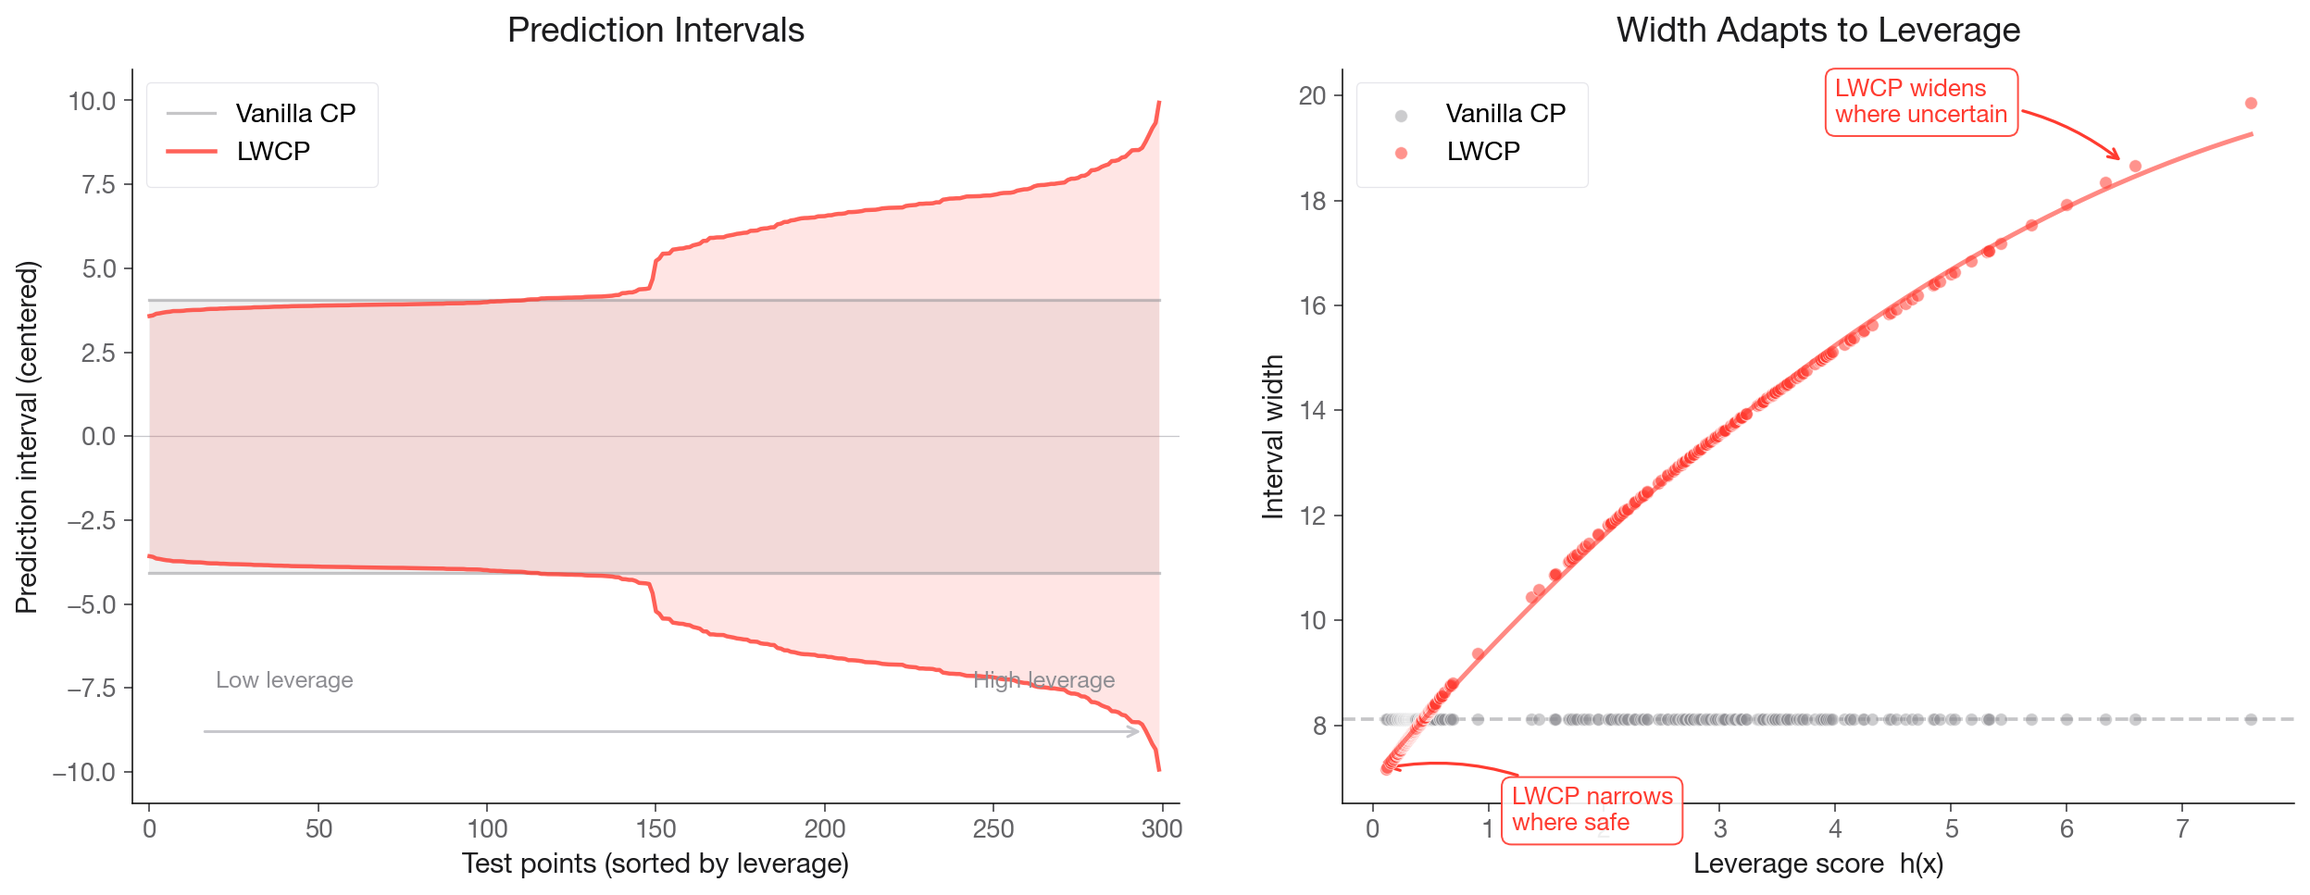
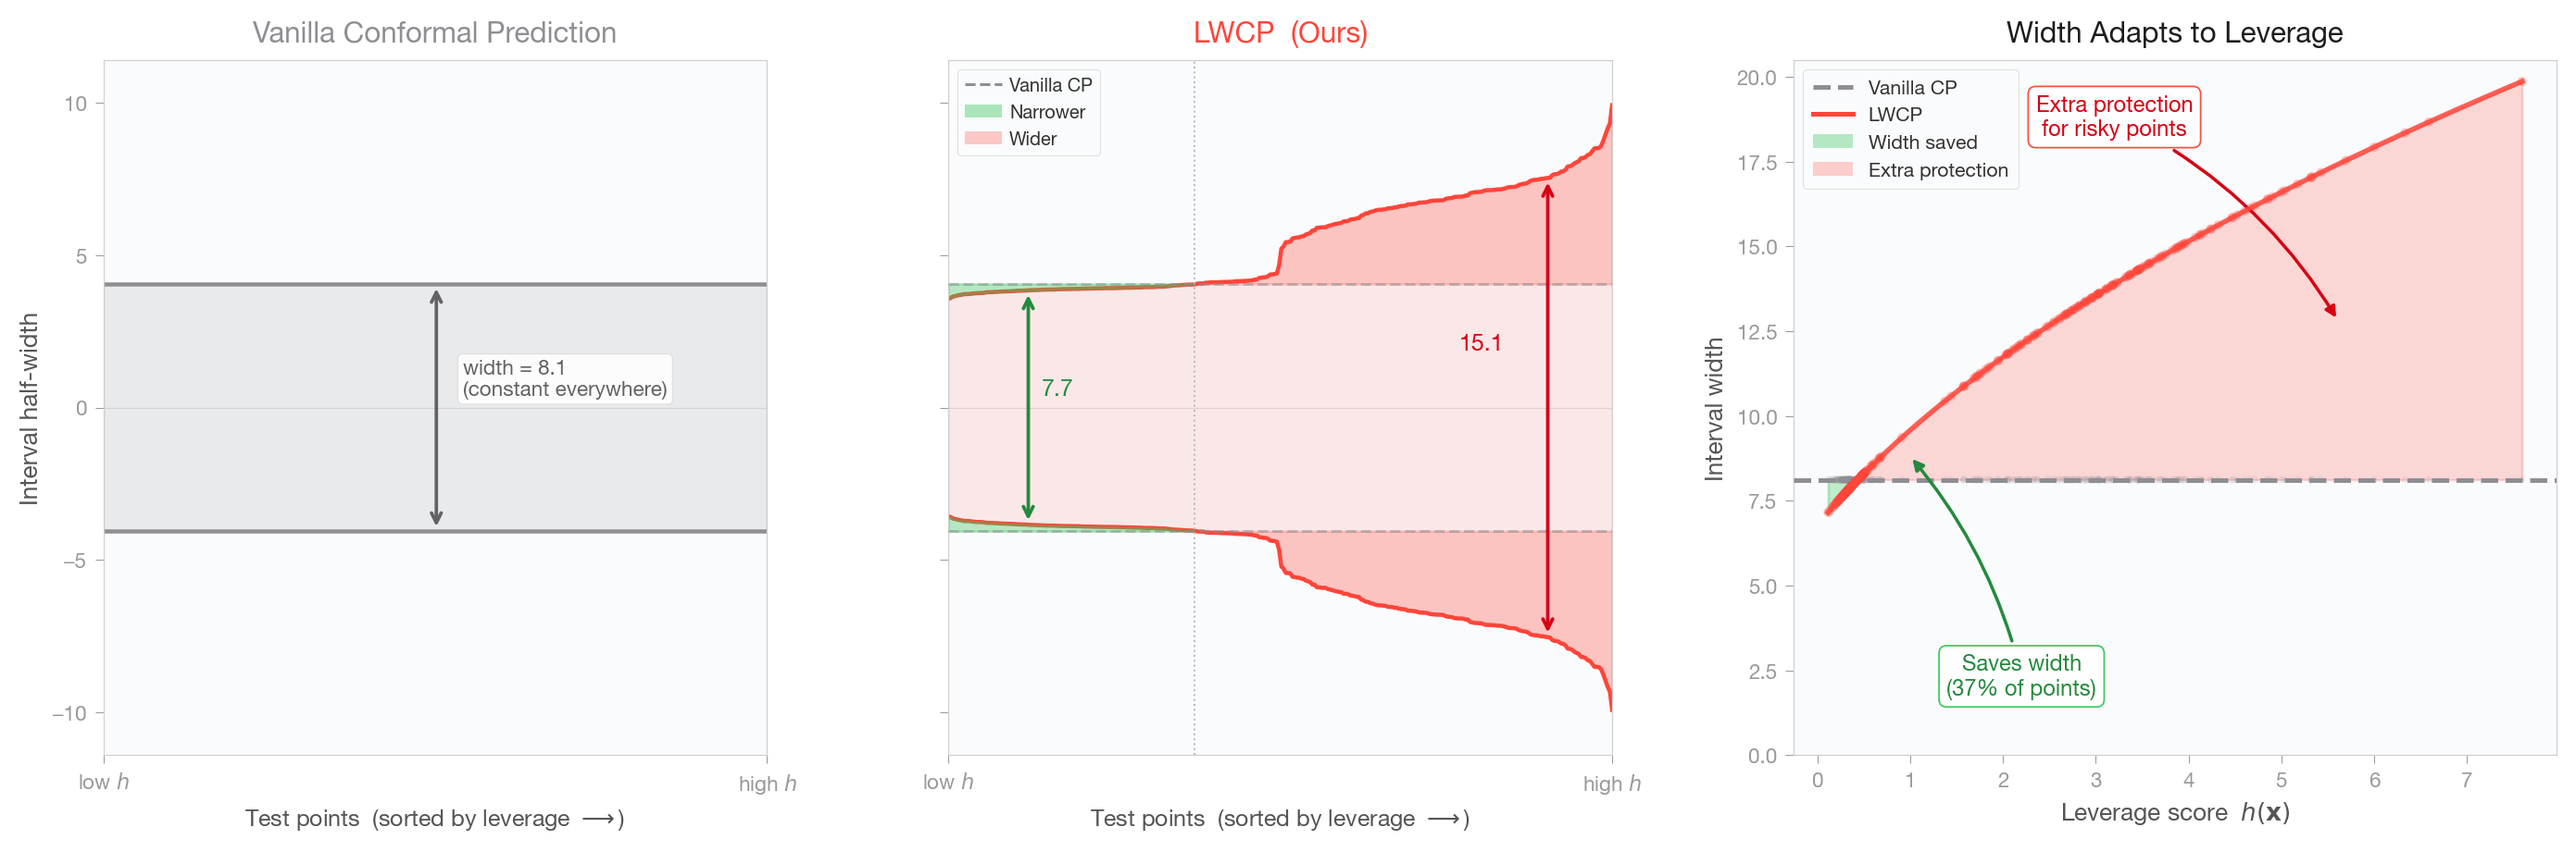
Redesign README plot three-panel layout

diff --git a/examples/generate_plot.py b/examples/generate_plot.py
@@ -1,0 +1,273 @@
+"""Generate the README hero image for LWCP."""
+
+import numpy as np
+import matplotlib.pyplot as plt
+import matplotlib.gridspec as gridspec
+from matplotlib.lines import Line2D
+from matplotlib.patches import Patch
+from sklearn.linear_model import Ridge
+from scipy.optimize import curve_fit
+import sys, os
+sys.path.insert(0, os.path.join(os.path.dirname(__file__), ".."))
+from lwcp import LWCP, ConstantWeight
+
+# ── Data (same as README) ──────────────────────────────────────────────
+rng = np.random.default_rng(5)
+p, n = 30, 200
+X = rng.standard_normal((n, p))
+X[-20:] *= 3
+beta = rng.standard_normal(p) * 0.5
+y = X @ beta + rng.normal(0, 2.0, size=n)
+
+# ── Fit ────────────────────────────────────────────────────────────────
+model = LWCP(predictor=Ridge(alpha=1.0), alpha=0.1, random_state=0)
+model.fit(X, y)
+vanilla = LWCP(predictor=Ridge(alpha=1.0), alpha=0.1, random_state=0,
+               weight_fn=ConstantWeight())
+vanilla.fit(X, y)
+
+# ── Predict ────────────────────────────────────────────────────────────
+X_test = np.vstack([rng.standard_normal((150, p)),
+                    rng.standard_normal((150, p)) * 3])
+y_pred, lo, hi = model.predict(X_test)
+_, lo_v, hi_v = vanilla.predict(X_test)
+
+h = model.leverage_computer_.leverage_scores(X_test)
+w_lwcp = hi - lo
+w_van = hi_v - lo_v
+hw_lwcp = w_lwcp / 2
+hw_van = w_van / 2
+
+# Sort by leverage
+order = np.argsort(h)
+h_s = h[order]
+hw_lwcp_s = hw_lwcp[order]
+hw_van_s = hw_van[order]
+w_lwcp_s = w_lwcp[order]
+w_van_s = w_van[order]
+idx = np.arange(len(h_s))
+n_pts = len(idx)
+
+# Stats
+pct_narrower = 100 * np.mean(w_lwcp < w_van)
+van_w = np.mean(w_van)
+
+# ── Style ─────────────────────────────────────────────────────────────
+plt.rcParams.update({
+    "font.family": "sans-serif",
+    "font.sans-serif": ["Helvetica Neue", "Helvetica", "Arial", "DejaVu Sans"],
+    "font.size": 10.5,
+    "axes.linewidth": 0.5,
+    "axes.edgecolor": "#d0d0d0",
+    "xtick.major.width": 0.4,
+    "ytick.major.width": 0.4,
+    "xtick.color": "#999999",
+    "ytick.color": "#999999",
+    "xtick.labelsize": 9,
+    "ytick.labelsize": 9,
+    "axes.labelcolor": "#555555",
+    "text.color": "#333333",
+    "figure.facecolor": "white",
+    "axes.facecolor": "#fafbfc",
+    "axes.grid": False,
+})
+
+GREEN = "#34c759"
+GREEN_DARK = "#248a3d"
+CORAL = "#ff453a"
+CORAL_DARK = "#d70015"
+LWCP_COL = "#ff453a"
+VAN_COL = "#8e8e93"
+DARK = "#1d1d1f"
+
+# ── Figure ─────────────────────────────────────────────────────────────
+fig = plt.figure(figsize=(16, 5.8))
+gs = gridspec.GridSpec(1, 3, width_ratios=[1, 1, 1.15], wspace=0.26,
+                       left=0.05, right=0.97, top=0.85, bottom=0.13)
+
+# Shared y-limits for centered intervals
+ymax_hw = max(hw_van_s.max(), hw_lwcp_s.max()) * 1.15
+
+# ═══════════════════════════════════════════════════════════════════════
+# PANEL 1: Vanilla CP — flat centered intervals
+# ═══════════════════════════════════════════════════════════════════════
+ax1 = fig.add_subplot(gs[0])
+
+# Centered: prediction at y=0, interval = ±half_width
+ax1.axhline(0, color="#e0e0e0", linewidth=0.5, zorder=0)
+ax1.fill_between(idx, -hw_van_s, hw_van_s, color=VAN_COL, alpha=0.15, zorder=1)
+ax1.plot(idx, hw_van_s, color=VAN_COL, linewidth=1.8, zorder=2)
+ax1.plot(idx, -hw_van_s, color=VAN_COL, linewidth=1.8, zorder=2)
+
+# Width double-arrow in the middle
+mid = n_pts // 2
+ax1.annotate("", xy=(mid, hw_van_s[mid]), xytext=(mid, -hw_van_s[mid]),
+             arrowprops=dict(arrowstyle="<->", color="#636366", lw=1.5))
+ax1.text(mid + 12, 0.4, f"width = {van_w:.1f}\n(constant everywhere)",
+         fontsize=9, color="#636366", ha="left", fontstyle="italic",
+         bbox=dict(boxstyle="round,pad=0.25", facecolor="white",
+                   edgecolor="#dddddd", alpha=0.9, linewidth=0.5))
+
+ax1.set_ylim(-ymax_hw, ymax_hw)
+ax1.set_xlim(0, n_pts - 1)
+ax1.set_xticks([0, n_pts - 1])
+ax1.set_xticklabels(["low $h$", "high $h$"], fontsize=9)
+ax1.set_ylabel("Interval half-width", fontsize=10.5)
+ax1.set_xlabel("Test points  (sorted by leverage $\\longrightarrow$)",
+               fontsize=10, labelpad=5)
+ax1.set_title("Vanilla Conformal Prediction", fontsize=12.5,
+              fontweight="bold", color=VAN_COL, pad=8)
+
+# ═══════════════════════════════════════════════════════════════════════
+# PANEL 2: LWCP — adaptive centered intervals
+# ═══════════════════════════════════════════════════════════════════════
+ax2 = fig.add_subplot(gs[1], sharey=ax1)
+
+ax2.axhline(0, color="#e0e0e0", linewidth=0.5, zorder=0)
+ax2.fill_between(idx, -hw_lwcp_s, hw_lwcp_s, color=LWCP_COL, alpha=0.10, zorder=1)
+ax2.plot(idx, hw_lwcp_s, color=LWCP_COL, linewidth=1.8, zorder=2)
+ax2.plot(idx, -hw_lwcp_s, color=LWCP_COL, linewidth=1.8, zorder=2)
+
+# Overlay vanilla bounds as ghost dashed for comparison
+ax2.plot(idx, hw_van_s, color=VAN_COL, linewidth=1.2, linestyle="--",
+         alpha=0.5, zorder=3)
+ax2.plot(idx, -hw_van_s, color=VAN_COL, linewidth=1.2, linestyle="--",
+         alpha=0.5, zorder=3)
+
+# Green/red difference fills (the key creative element)
+savings_mask = hw_lwcp_s < hw_van_s
+cost_mask = hw_lwcp_s > hw_van_s
+
+# Green where LWCP is narrower
+ax2.fill_between(idx, hw_lwcp_s, hw_van_s, where=savings_mask,
+                 color=GREEN, alpha=0.35, zorder=2)
+ax2.fill_between(idx, -hw_van_s, -hw_lwcp_s, where=savings_mask,
+                 color=GREEN, alpha=0.35, zorder=2)
+
+# Coral where LWCP is wider
+ax2.fill_between(idx, hw_van_s, hw_lwcp_s, where=cost_mask,
+                 color=CORAL, alpha=0.22, zorder=2)
+ax2.fill_between(idx, -hw_lwcp_s, -hw_van_s, where=cost_mask,
+                 color=CORAL, alpha=0.22, zorder=2)
+
+# Crossover line
+cross_pts = np.where(np.diff(savings_mask.astype(int)))[0]
+if len(cross_pts) > 0:
+    cx = cross_pts[0]
+    ax2.axvline(cx, color="#bbbbbb", linewidth=0.8, linestyle=":", zorder=5)
+
+# Width double-arrows — narrow end
+narrow_i = int(n_pts * 0.12)
+ax2.annotate("", xy=(narrow_i, hw_lwcp_s[narrow_i]),
+             xytext=(narrow_i, -hw_lwcp_s[narrow_i]),
+             arrowprops=dict(arrowstyle="<->", color=GREEN_DARK, lw=1.5))
+ax2.text(narrow_i + 6, 0.4, f"{w_lwcp_s[narrow_i]:.1f}",
+         fontsize=10, color=GREEN_DARK, fontweight="bold")
+
+# Width double-arrows — wide end
+wide_i = int(n_pts * 0.90)
+ax2.annotate("", xy=(wide_i, hw_lwcp_s[wide_i]),
+             xytext=(wide_i, -hw_lwcp_s[wide_i]),
+             arrowprops=dict(arrowstyle="<->", color=CORAL_DARK, lw=1.5))
+ax2.text(wide_i - 40, hw_lwcp_s[wide_i] * 0.25, f"{w_lwcp_s[wide_i]:.1f}",
+         fontsize=10, color=CORAL_DARK, fontweight="bold")
+
+# Small legend in upper-left
+leg_el = [
+    Line2D([0], [0], color=VAN_COL, linewidth=1.2, linestyle="--",
+           label="Vanilla CP"),
+    Patch(facecolor=GREEN, alpha=0.4, label="Narrower"),
+    Patch(facecolor=CORAL, alpha=0.28, label="Wider"),
+]
+leg2 = ax2.legend(handles=leg_el, loc="upper left", fontsize=8,
+                  frameon=True, fancybox=True, framealpha=0.95,
+                  edgecolor="#dddddd", borderpad=0.4, handletextpad=0.4)
+leg2.get_frame().set_linewidth(0.4)
+
+ax2.set_xlim(0, n_pts - 1)
+ax2.set_xticks([0, n_pts - 1])
+ax2.set_xticklabels(["low $h$", "high $h$"], fontsize=9)
+ax2.set_xlabel("Test points  (sorted by leverage $\\longrightarrow$)",
+               fontsize=10, labelpad=5)
+ax2.set_title("LWCP  (Ours)", fontsize=12.5, fontweight="bold",
+              color=LWCP_COL, pad=8)
+plt.setp(ax2.get_yticklabels(), visible=False)
+
+# ═══════════════════════════════════════════════════════════════════════
+# PANEL 3: Width vs leverage scatter
+# ═══════════════════════════════════════════════════════════════════════
+ax3 = fig.add_subplot(gs[2])
+
+# Smooth LWCP trend
+def width_model(hh, a):
+    return a * np.sqrt(1 + hh)
+
+popt, _ = curve_fit(width_model, h_s, w_lwcp_s, p0=[w_lwcp_s[0]])
+h_smooth = np.linspace(h_s.min(), h_s.max(), 300)
+w_smooth = width_model(h_smooth, popt[0])
+
+# Vanilla: dashed line + ghost dots
+ax3.axhline(van_w, color=VAN_COL, linewidth=2.0, linestyle="--", zorder=3)
+ax3.scatter(h, w_van, alpha=0.10, s=10, color=VAN_COL, edgecolors="none",
+            zorder=2)
+
+# LWCP: scatter + trend
+ax3.scatter(h, w_lwcp, alpha=0.30, s=16, color=LWCP_COL, edgecolors="none",
+            zorder=3)
+ax3.plot(h_smooth, w_smooth, color=LWCP_COL, linewidth=2.2, alpha=0.85,
+         zorder=4)
+
+# Green/coral fills
+ax3.fill_between(h_smooth, van_w, w_smooth, where=w_smooth <= van_w,
+                 color=GREEN, alpha=0.30, zorder=1, interpolate=True)
+ax3.fill_between(h_smooth, van_w, w_smooth, where=w_smooth >= van_w,
+                 color=CORAL, alpha=0.20, zorder=1, interpolate=True)
+
+# "Saves width" annotation
+save_h = h_smooth[35]
+save_mid = (van_w + width_model(save_h, popt[0])) / 2
+ax3.annotate(f"Saves width\n({pct_narrower:.0f}% of points)",
+             xy=(save_h, save_mid),
+             xytext=(2.2, van_w * 0.22),
+             fontsize=9.5, color=GREEN_DARK, fontweight="bold", ha="center",
+             arrowprops=dict(arrowstyle="-|>", color=GREEN_DARK, lw=1.4,
+                             connectionstyle="arc3,rad=0.12"),
+             bbox=dict(boxstyle="round,pad=0.35", facecolor="white",
+                       edgecolor=GREEN, alpha=0.95, linewidth=0.7))
+
+# "Extra protection" annotation
+prot_h = h_smooth[220]
+prot_mid = (van_w + width_model(prot_h, popt[0])) / 2
+ax3.annotate("Extra protection\nfor risky points",
+             xy=(prot_h, prot_mid),
+             xytext=(3.2, w_smooth[-1] * 0.92),
+             fontsize=9.5, color=CORAL_DARK, fontweight="bold", ha="center",
+             arrowprops=dict(arrowstyle="-|>", color=CORAL_DARK, lw=1.4,
+                             connectionstyle="arc3,rad=-0.15"),
+             bbox=dict(boxstyle="round,pad=0.35", facecolor="white",
+                       edgecolor=CORAL, alpha=0.95, linewidth=0.7))
+
+# Legend
+legend_elements = [
+    Line2D([0], [0], color=VAN_COL, linewidth=2, linestyle="--",
+           label="Vanilla CP"),
+    Line2D([0], [0], color=LWCP_COL, linewidth=2, label="LWCP"),
+    Patch(facecolor=GREEN, alpha=0.35, label="Width saved"),
+    Patch(facecolor=CORAL, alpha=0.25, label="Extra protection"),
+]
+leg3 = ax3.legend(handles=legend_elements, loc="upper left", fontsize=8.5,
+                  frameon=True, fancybox=True, framealpha=0.95,
+                  edgecolor="#dddddd", borderpad=0.5)
+leg3.get_frame().set_linewidth(0.4)
+
+ax3.set_xlabel("Leverage score  $h(\\mathbf{x})$", fontsize=10.5)
+ax3.set_ylabel("Interval width", fontsize=10.5)
+ax3.set_title("Width Adapts to Leverage", fontsize=12.5, fontweight="bold",
+              color=DARK, pad=8)
+ax3.set_ylim(bottom=0)
+
+# ── Save ───────────────────────────────────────────────────────────────
+fig.savefig(os.path.join(os.path.dirname(__file__), "lwcp_example.png"),
+            dpi=180, bbox_inches="tight", facecolor="white", pad_inches=0.12)
+plt.close(fig)
+print("Saved examples/lwcp_example.png")
